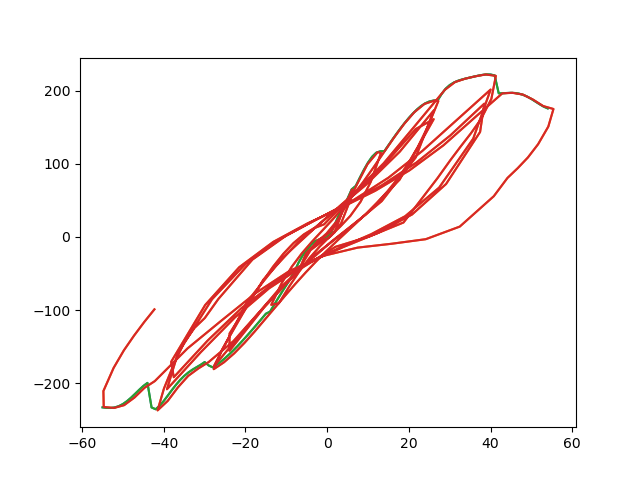
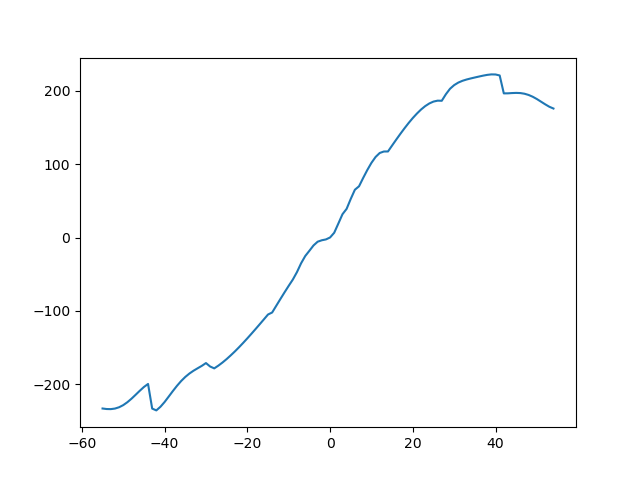
A new layout that adding parameter Display

diff --git a/GUI/GUI.py b/GUI/GUI.py
@@ -2,6 +2,7 @@ import sys
 from PyQt5.QtGui import * 
 from PyQt5.QtWidgets import *
 import Component as cp
+from PyQt5.QtCore import Qt
 
 class Mywindow(QMainWindow):
 
@@ -11,13 +12,22 @@ class Mywindow(QMainWindow):
 
 
     def initUI(self):
-        self.mainWidget=QWidget()
-        self.centralLayout=QVBoxLayout()
-        self.mainWidget.setLayout(self.centralLayout)
-        self.setCentralWidget(self.mainWidget)
+        self.wholeWidget=QWidget()
+        self.wholeWidgetLayout=QHBoxLayout()
+        self.wholeWidget.setLayout(self.wholeWidgetLayout)
+        self.setCentralWidget(self.wholeWidget)
 
+        #Hysteresis plot area
+        self.hysteresisWidget=QWidget()
+        self.hysteresisWidgetLayout=QVBoxLayout()
+        self.hysteresisWidget.setLayout(self.hysteresisWidgetLayout)
+        self.wholeWidgetLayout.addWidget(self.hysteresisWidget)
+
+        self.hysteresisWidgetTitle=QLabel('Plot Area:')
+        self.hysteresisWidgetLayout.addWidget(self.hysteresisWidgetTitle,alignment=Qt.AlignCenter)
         self.chooseLayout=QFormLayout()
-        self.centralLayout.addLayout(self.chooseLayout)
+        self.chooseLayout.setFormAlignment(Qt.AlignCenter)
+        self.hysteresisWidgetLayout.addLayout(self.chooseLayout)
 
         self.datFilePathButton=QPushButton("Choose .dat File Path")
         self.lableDatFile=QLabel('None')
@@ -27,28 +37,72 @@ class Mywindow(QMainWindow):
         self.chooseLayout.addRow(self.logFilePathButton,self.lableLogFile)
 
         self.lablePlot=QLabel('Pictrue\'s location')
-        self.centralLayout.addWidget(self.lablePlot)
+        self.hysteresisWidgetLayout.addWidget(self.lablePlot,alignment=Qt.AlignCenter)
 
         self.functionLayout=QHBoxLayout()
-        self.centralLayout.addLayout(self.functionLayout)
+        self.functionLayout.setAlignment(Qt.AlignCenter)
+        self.hysteresisWidgetLayout.addLayout(self.functionLayout)
         self.readButton=QPushButton('Read Data')
-        self.functionLayout.addWidget(self.readButton)
+        self.readButton.setMaximumWidth(100)
+        self.functionLayout.addWidget(self.readButton,alignment=Qt.AlignLeft)
         self.plotButton=QPushButton('plot')
-        self.functionLayout.addWidget(self.plotButton)
-
+        self.plotButton.setMaximumWidth(100)
+        self.functionLayout.addWidget(self.plotButton,alignment=Qt.AlignLeft)
+        self.checkBoxListStr=['Hysteresis','Skeleton']
+        self.checkBoxList=[QCheckBox(i) for i in self.checkBoxListStr]
+        for i in self.checkBoxList:
+            self.functionLayout.addWidget(i,alignment=Qt.AlignLeft)
 
         self.message=QTextEdit()
         self.message.append('>>>Program Start')
-        self.centralLayout.addWidget(self.message)
-        self.message.setMaximumHeight(200)
+        self.hysteresisWidgetLayout.addWidget(self.message)
+        self.message.setMaximumHeight(100)
         
-
         self.datFilePathButton.clicked.connect(self.chooseDatFile)
         self.logFilePathButton.clicked.connect(self.chooseLogFile)
         self.readButton.clicked.connect(self.readData)
         self.plotButton.clicked.connect(self.plot)
+        ##Hysteresis stretch adjust
+        self.hysteresisStretchList=[1,1,4,1]
+        for i,j in enumerate(self.hysteresisStretchList):
+            self.hysteresisWidgetLayout.setStretch(i,j)
 
 
+
+        #ParaCalculate Area
+        self.paraWidget=QWidget()
+        self.wholeWidgetLayout.addWidget(self.paraWidget,alignment=Qt.AlignCenter)
+        self.paraWidgetLayout=QVBoxLayout()
+        self.paraWidget.setLayout(self.paraWidgetLayout)
+
+        self.paraWidgetTitle=QLabel('Parameter Calculate:')
+        self.paraWidgetLayout.addWidget(self.paraWidgetTitle,alignment=Qt.AlignCenter)
+        self.paraLayout=QFormLayout()
+        self.paraWidgetLayout.addLayout(self.paraLayout)
+        self.labelListStr=['Yield Displacement','Yield Force','Peak Displacement','Peak Force','Ultimate Displacement','Ultimate Force','Ductlity Factor']
+        self.labelList=[QLabel(i) for i in self.labelListStr]
+        self.labelValue=[QLineEdit() for i in self.labelList]
+        for i,j in zip(self.labelList,self.labelValue):
+            self.paraLayout.addRow(i,j)
+        self.yieldMethodLayout=QHBoxLayout()
+        self.paraWidgetLayout.addLayout(self.yieldMethodLayout)
+        self.yieldMethodLayout.setAlignment(Qt.AlignLeading)
+        self.yieldMethodLable=QLabel('Yield Method Choose:')
+        self.yieldMethodLayout.addWidget(self.yieldMethodLable)
+        self.yieldMethodRadioButtonStr=['Area','Geometry','Rpart']
+        self.yieldMethodRadioButton=[QRadioButton(i) for i in self.yieldMethodRadioButtonStr]
+        for i in self.yieldMethodRadioButton:
+            self.yieldMethodLayout.addWidget(i)
+
+        ##caculate button
+        self.caculateButton=QPushButton('Calculate')
+        self.paraWidgetLayout.addWidget(self.caculateButton,alignment=Qt.AlignCenter)
+
+
+
+        # Whole layout adjust
+        self.wholeWidgetLayout.setStretch(0,4)
+        self.wholeWidgetLayout.setStretch(1,1)
 
         self.setGeometry(200,125,1500,800)
         self.setWindowTitle('Analysis')
@@ -73,10 +127,21 @@ class Mywindow(QMainWindow):
             self.message.append('>>>Read compelete')
 
     def plot(self):
-        self.component.visualData(1,1,1)
-        pic=QPixmap('1.png')
-        self.lablePlot.setPixmap(pic)
-        self.message.append('>>>Plot complete')
+        if self.checkBoxList[0].isChecked() and not self.checkBoxList[1].isChecked():
+            self.component.visualData(0,1,1)
+            pic=QPixmap('1.png')
+            self.lablePlot.setPixmap(pic)
+            self.message.append('>>>Plot complete')
+        elif not self.checkBoxList[0].isChecked() and self.checkBoxList[1].isChecked():
+            self.component.visualData(1,0,1)
+            pic=QPixmap('1.png')
+            self.lablePlot.setPixmap(pic)
+            self.message.append('>>>Plot complete')
+        elif self.checkBoxList[0].isChecked() and self.checkBoxList[1].isChecked():
+            self.component.visualData(1,1,1)
+            pic=QPixmap('1.png')
+            self.lablePlot.setPixmap(pic)
+            self.message.append('>>>Plot complete')
 
     
 

diff --git a/hysteresis.py b/hysteresis.py
@@ -102,7 +102,7 @@ class CurrentComponent():
 
     def skeleton(self,modifiedSkeleton=0):
     ''' Get skeleton for component with choose highest(positive) or lowest(negative) value for every Disp \n
-    modifiedSkeleton provided with non-0 present fit skeleton with fourth polynominals'''
+        ModifiedSkeleton  provided with non-0 present fit skeleton with fourth polynominals'''
         self.readData()
         self.readTimeChangeIndex()
         modifiedDataDecreased=self.modifiedCurveDecreased(10)

diff --git a/GUI/Component.py b/GUI/Component.py
@@ -144,8 +144,6 @@ class CurrentComponent():
 
     def yieldPoint(self):
         skeleton=self.skeleton(1)
-       
-        
         plt.plot(skeleton['Disp'],skeleton['Force'])
         
         
